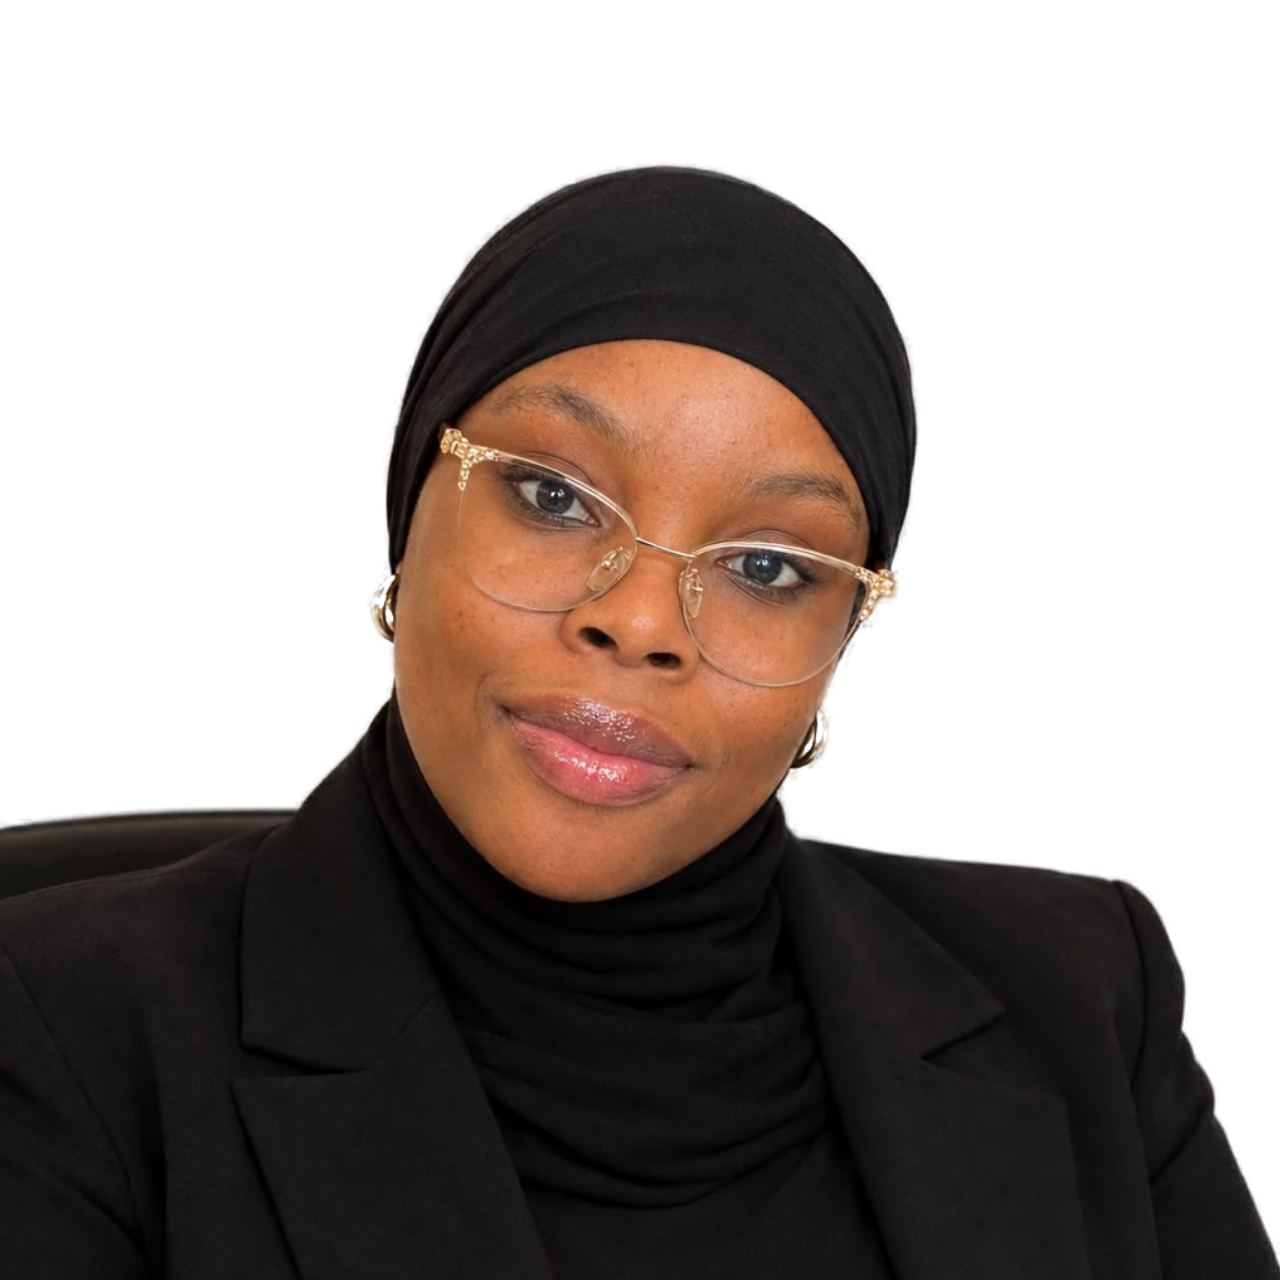
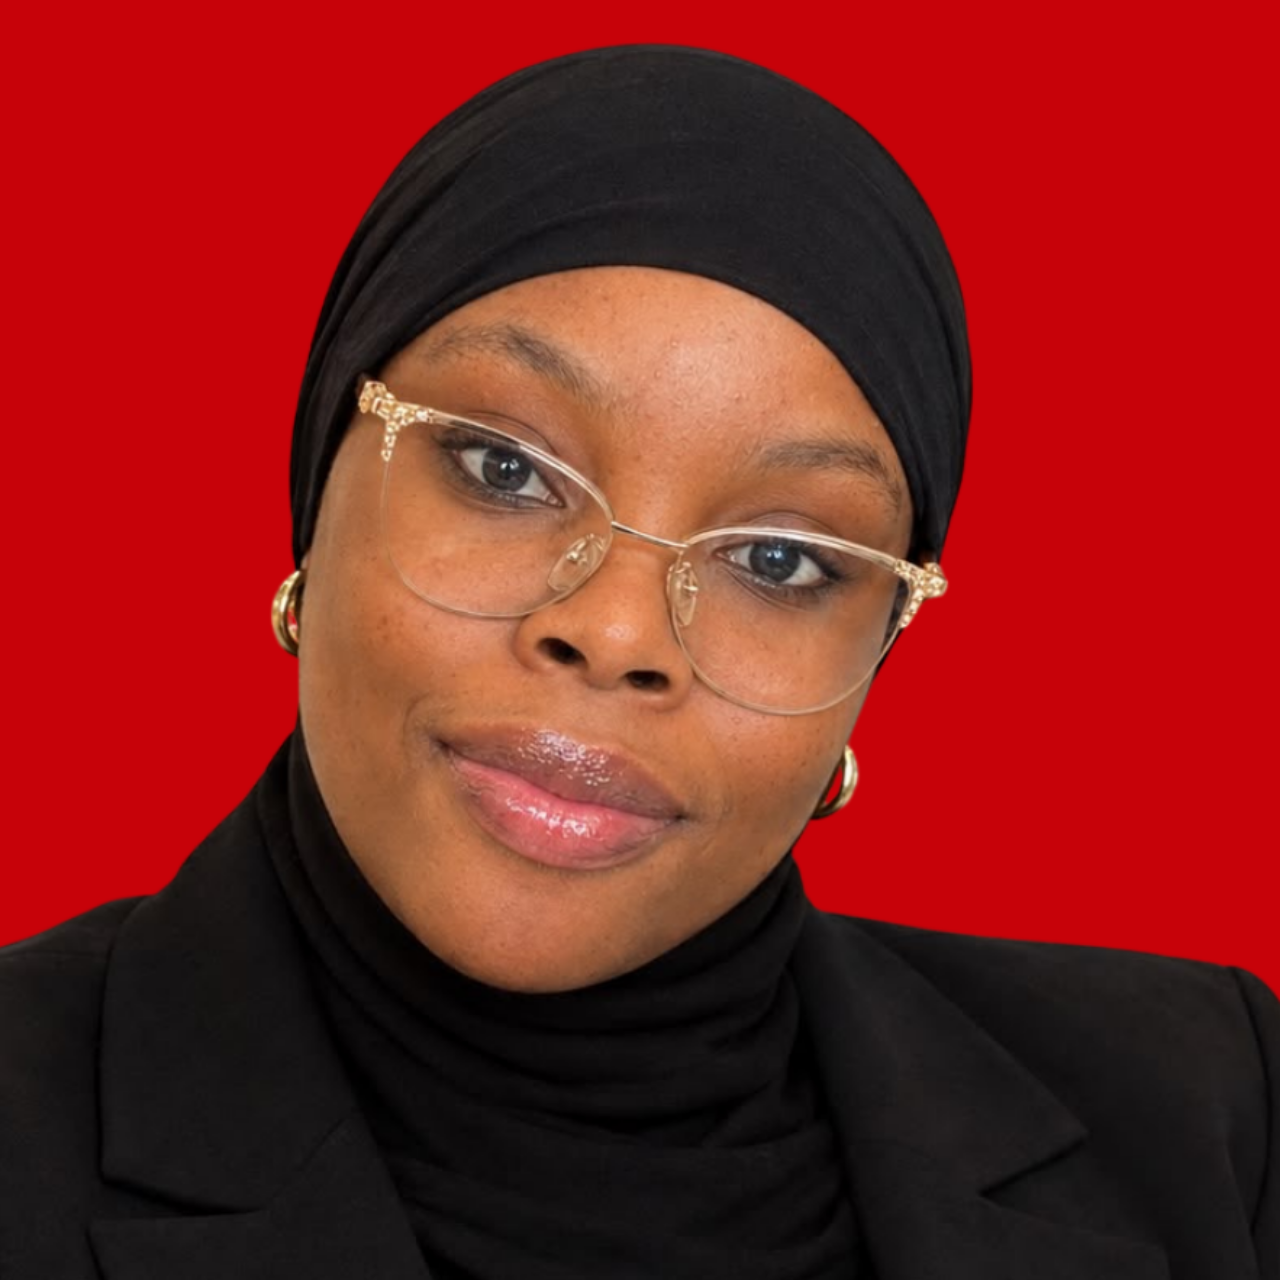
Fundadores: retratos novos de estúdio vermelho e chapa de tinta
Os retratos saem dos cartazes das redes (1080×1350): o corte é medido
(acaba 8 px acima do nome do cartaz, que não entra no site) e a Sheinaz é
enquadrada para o topo da cabeça cair à altura do topo do chapéu do
Gerson. .qa/retratos.mjs prova antes de gravar: nenhum branco de texto no
fundo do quadrado e cantos de cima em vermelho de estúdio.

A chapa (biografia e LinkedIn) passa de sinal a tinta: vermelho sobre o
retrato vermelho apagava a pessoa no hover e, em toque, colava-se ao
retrato num só bloco. Giz sobre tinta ~17:1.

Claude-Session: https://claude.ai/code/session_01QtarRCp34GgL5ohML7cb6W

diff --git a/app/globals.css b/app/globals.css
@@ -433,18 +433,18 @@
 /* -------------------------------------------------------------------------
    Cartão de fundador.
 
-   Repouso: retrato a cores numa janela quadrada, nome e cargo na
-   faixa por baixo. Estado activo: chapa de sinal por cima do retrato, com a
-   responsabilidade e o LinkedIn.
+   Repouso: retrato de estúdio, sobre vermelho, numa janela quadrada; nome e
+   cargo na faixa por baixo. Estado activo: chapa de tinta por cima do
+   retrato, com a responsabilidade e o LinkedIn.
 
-   A cor é legítima aqui pela regra que já existe no topo deste ficheiro —
-   «o CTA primário e o estado ativo». O cartão activo é o estado activo.
+   A chapa é TINTA e não sinal desde que os retratos passaram a ter fundo
+   vermelho (2026-10-06): vermelho sobre vermelho apagava a pessoa no hover e,
+   em toque, a chapa colava-se ao retrato num só bloco vermelho. O vermelho
+   fica no retrato; a chapa dá-lhe o contraponto.
 
-   `--color-signal-700` FIXO e não `var(--signal)`: o token semântico muda com
-   a superfície (#b82200 em claro, #ff3b10 em escuro) e a secção aparece em
-   três páginas. Giz sobre #b82200 dá 5,48:1 — AA, calculado, não estimado.
-   Giz sobre #ff3b10 daria 2,6:1 e reprovaria. A chapa fixa é o que torna o
-   contraste independente da superfície onde o cartão for colocado.
+   `--color-ink-950` FIXO e não um token de superfície: a secção aparece em
+   três páginas, claras e escuras. Giz sobre #0a0a0b dá ~17:1 — AA com folga,
+   independente da superfície onde o cartão for colocado.
    ------------------------------------------------------------------------- */
 .perfil-cartao {
   position: relative;
@@ -484,7 +484,7 @@
      oposta, como se fosse outro elemento. */
   align-items: flex-start;
   gap: 1rem;
-  background: var(--color-signal-700);
+  background: var(--color-ink-950);
   color: var(--color-chalk);
   padding: 1.5rem;
 }
@@ -506,19 +506,17 @@
 
     /* Opaca onde há texto, translúcida no topo: o retrato atravessa a chapa
        como fantasma e o cartão activo continua a ser uma pessoa, não um
-       rectângulo vermelho.
+       rectângulo escuro.
 
-       O corte a 54% não é estético. Giz sobre o vermelho puro dá 5,48:1 — AA.
-       Sobre o vermelho com um píxel BRANCO do retrato por baixo a 14% já dá
-       4,40:1 e reprovaria. Como o texto vive nos 40% de baixo mesmo no cartão
-       mais estreito, deixar essa faixa opaca garante que nenhum brilho da pele
-       pode chegar ao texto — a garantia é geométrica, não uma aposta sobre
-       onde a linha vai cair. */
+       O corte a 54% não é estético: o texto vive nos 40% de baixo mesmo no
+       cartão mais estreito, e essa faixa opaca garante que nenhum brilho do
+       retrato chega por baixo do texto — a garantia é geométrica, não uma
+       aposta sobre onde a linha vai cair. */
     background: linear-gradient(
       to top,
-      var(--color-signal-700) 0%,
-      var(--color-signal-700) 54%,
-      color-mix(in srgb, var(--color-signal-700) 62%, transparent) 100%
+      var(--color-ink-950) 0%,
+      var(--color-ink-950) 54%,
+      color-mix(in srgb, var(--color-ink-950) 55%, transparent) 100%
     );
   }
 

diff --git a/components/sections/Founders.tsx b/components/sections/Founders.tsx
@@ -13,9 +13,9 @@ import sheinaz from '@/public/equipa/sheinaz.png';
 /**
  * Perfis de quem lidera.
  *
- * Em repouso: retrato a cores (`.qa/retratos.mjs`) numa janela quadrada, numeral techno, nome
- * e cargo. No estado activo: chapa de sinal sobre o retrato, com a
- * responsabilidade e a ligação ao LinkedIn.
+ * Em repouso: retrato de estúdio sobre vermelho (`.qa/retratos.mjs`) numa
+ * janela quadrada, numeral techno, nome e cargo. No estado activo: chapa de
+ * tinta sobre o retrato, com a responsabilidade e a ligação ao LinkedIn.
  *
  * Três decisões que não são de gosto:
  *
